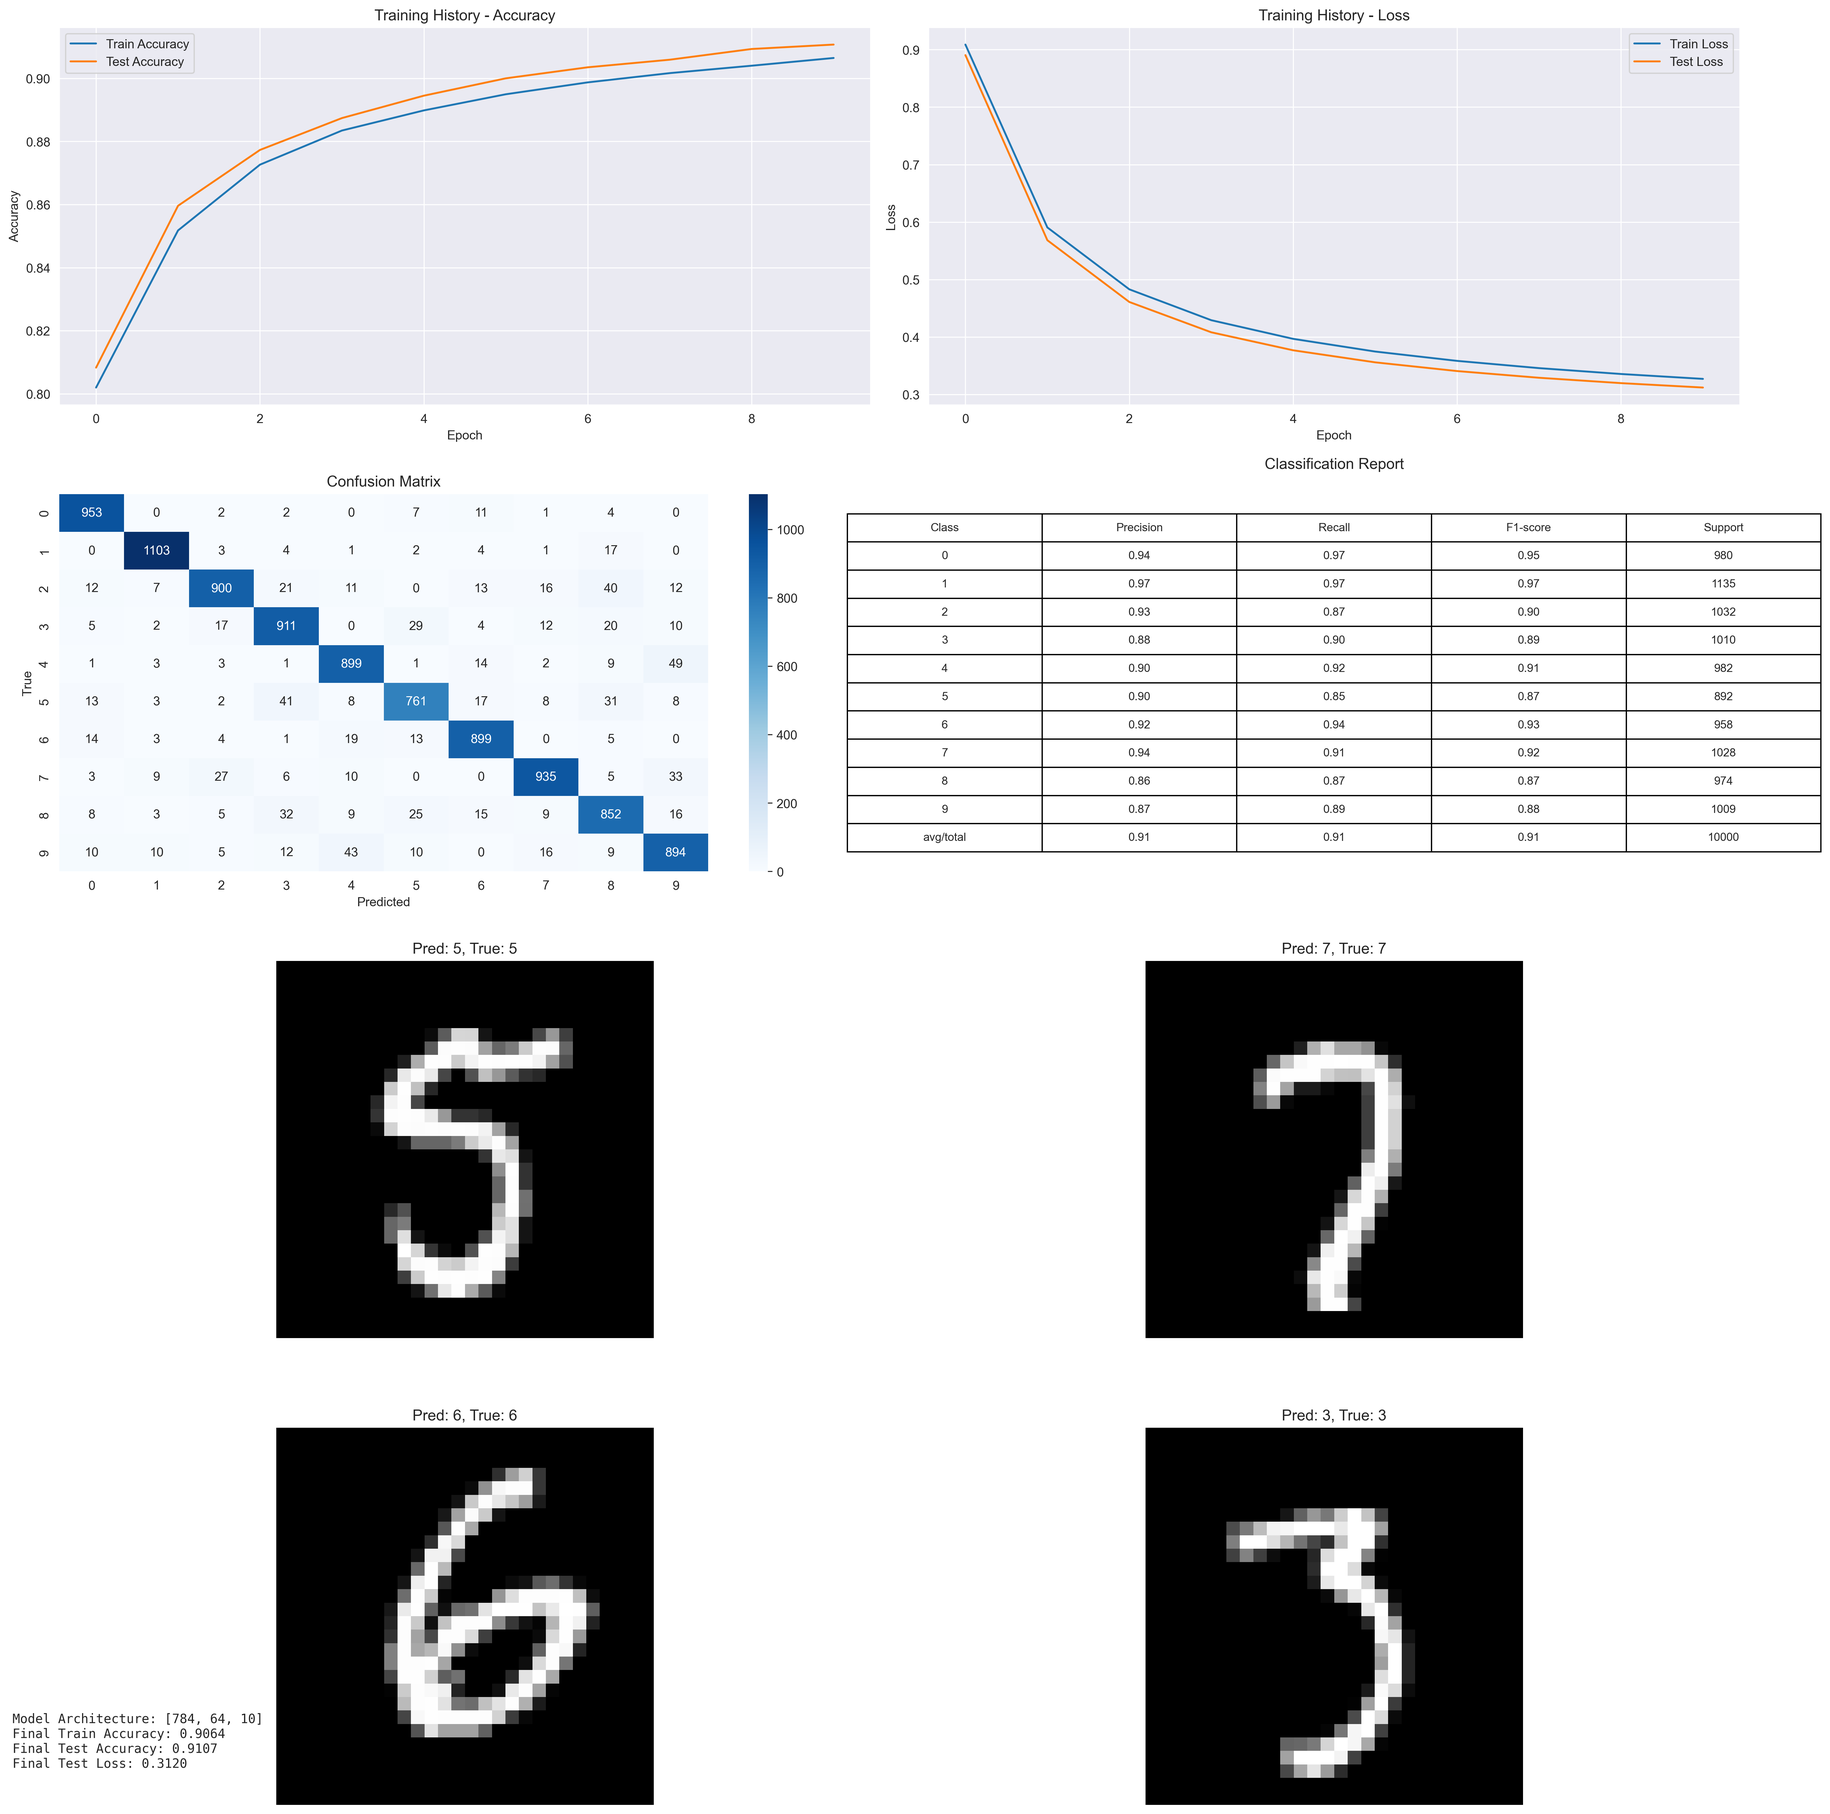
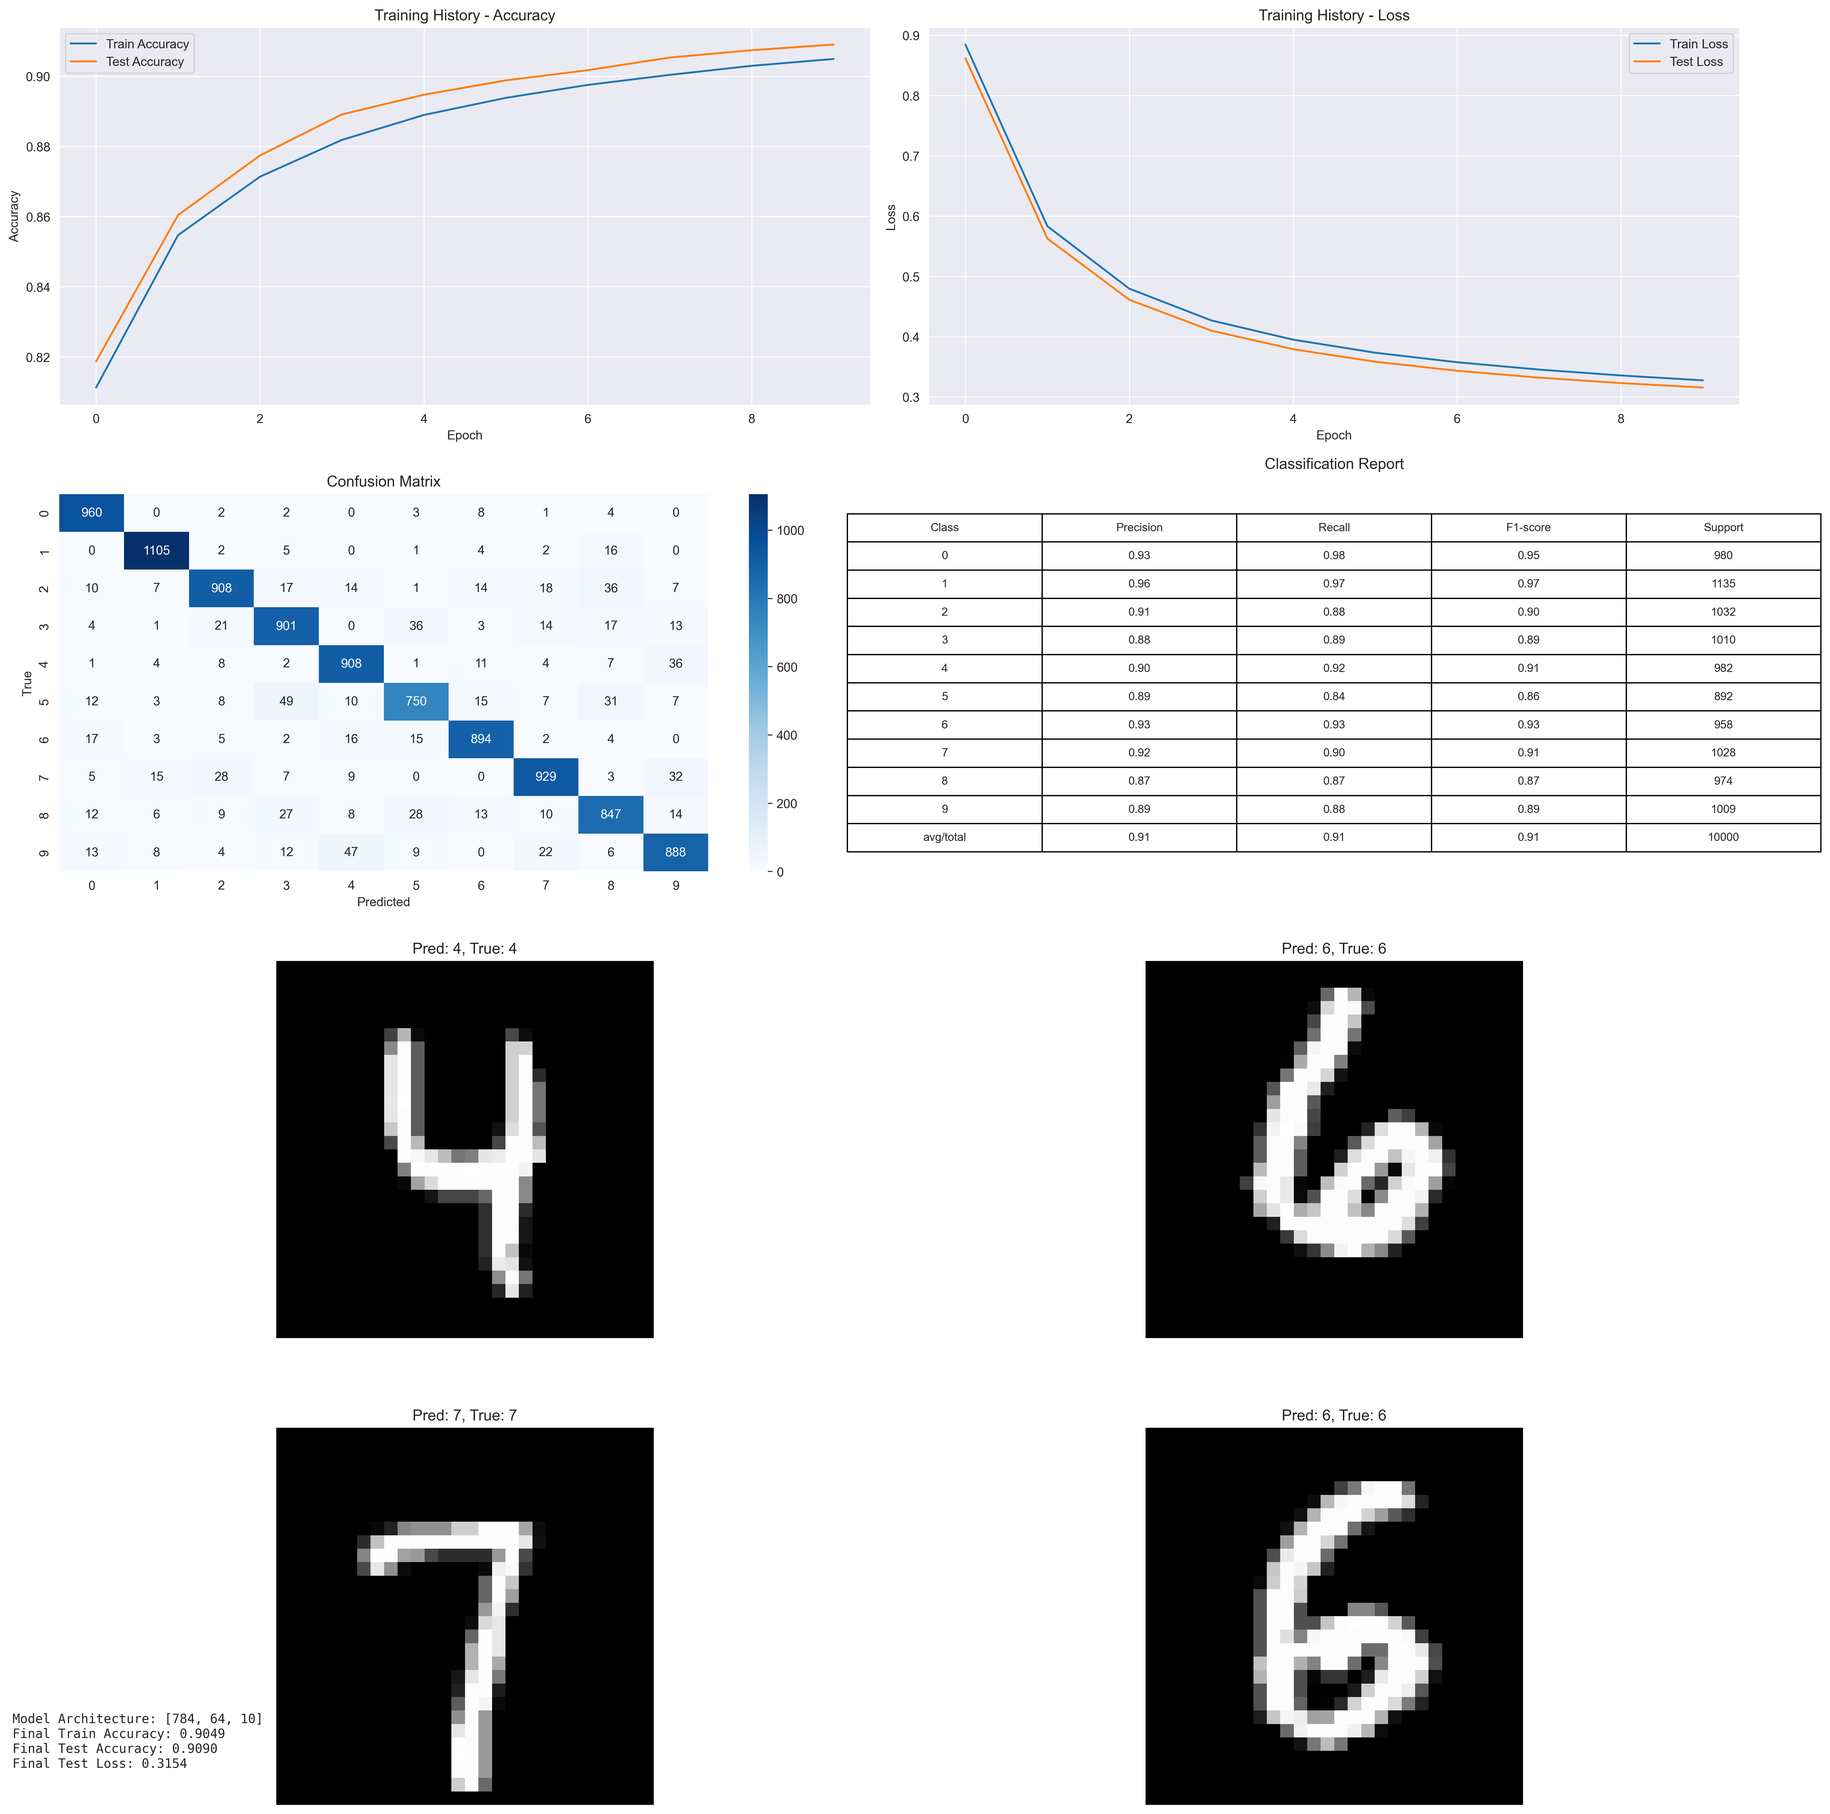
feat: added training and evaluation code to model

diff --git a/model_code/DNN.py b/model_code/DNN.py
@@ -22,6 +22,7 @@ class DNN():
         
         self.params = self.initialize()
         self.cache = {} # for saving the activations
+
     # Defines the functionality of the ReLU activation function
     def relu(self, x, grad=False):
         if grad:
@@ -35,8 +36,7 @@ class DNN():
         if grad:
             return (np.exp(-x))/((np.exp(-x)+1)**2)
         return 1/(1 + np.exp(-x))
-
-   
+    
     # Defines the functionality of the softmax activation function
     def softmax(self, x):
         exp_x = np.exp(x - np.max(x, axis=0, keepdims=True))
@@ -70,7 +70,8 @@ class DNN():
                 self.cache[f"A{i}"] = self.softmax(self.cache[f"Z{i}"])
         
         return self.cache[f"A{self.num_layers-1}"]
-        # Defines the functionality to move back through the neural net, calculating all the necessary gradients as we go backward
+    
+    # Defines the functionality to move back through the neural net, calculating all the necessary gradients as we go backward
     def backprop(self, y, y_hat):
         batch_size = y.shape[0]
         self.grads = {}
@@ -96,3 +97,228 @@ class DNN():
         for key in self.params:
             self.params[key] = self.params[key] - lr*self.grads[key]
     
+    # Defines the loss function for our neural net
+    # We will be using the cross entropy loss function
+    def cross_entropy_loss(self, y, y_hat):
+        epsilon = 1e-15  # Small constant to prevent log(0)
+        y_hat = np.clip(y_hat, epsilon, 1 - epsilon)
+        return -(1./y.shape[0])*(np.sum(y.T*np.log(y_hat)))
+
+    # Calculates the accuracy of our model
+    def acc(self, y, y_hat):
+        return np.mean(np.argmax(y, axis=-1) == np.argmax(y_hat.T, axis=-1))
+    
+    # This function is where the actual training of our model takes place
+    # We culminate all we have made so far into one function
+    def train(self, X_train, y_train, X_test, y_test, epochs = 10, batch_size=64, lr=0.01):
+        num_batches = -(-X_train.shape[0]//batch_size)
+
+        start_time = time.time()
+        # Information template so we know how our model is learning as the epochs progress
+        template = "Epoch {}: {:.2f}s, train acc={:.2f}, train loss={:.2f}, test acc={:.2f}, test loss={:.2f}"
+        stats = {"train_acc" : [],
+                 "train_loss" : [],
+                 "test_acc" : [],
+                 "test_loss" : []}
+
+        for epoch in range(epochs):
+            for i in range(num_batches):
+                # Dividing the data into small batches
+                begin = i * batch_size
+                end = min(begin + batch_size, X_train.shape[0]-1)
+                X = X_train[begin:end]
+                y = y_train[begin:end]
+
+                # Training aka forward propagation then backward propagation and then optimize
+                y_hat = self.forward(X)
+                self.backprop(y, y_hat)
+                self.optimize(lr)
+
+            # Testing the current model on the testing and training data to get current accuracy
+            y_hat = self.forward(X_train)
+            train_acc = self.acc(y_train, y_hat)
+            train_loss = self.cross_entropy_loss(y_train, y_hat)
+
+            y_hat = self.forward(X_test)
+            test_acc = self.acc(y_test, y_hat)
+            test_loss = self.cross_entropy_loss(y_test, y_hat)
+
+            print(template.format(epoch+1, time.time()-start_time, train_acc, train_loss, test_acc, test_loss))
+
+            stats["train_acc"].append(train_acc)
+            stats["train_loss"].append(train_loss)
+            stats["test_acc"].append(test_acc)
+            stats["test_loss"].append(test_loss)
+        
+        return stats
+    
+    # We use this function to test our model
+    def test(self, img, y=None, save_path='model_code/results/test.png'):
+        img_reshaped = img.reshape(1, -1)
+        pred_prob = self.forward(img_reshaped)
+        y_hat = np.argmax(pred_prob)
+        plt.figure(figsize=(10, 4))
+        plt.subplot(1, 2, 1)
+        plt.imshow(img.reshape(28, 28), cmap='gray')
+        plt.axis('off')
+        plt.title('Input Image')
+
+        plt.subplot(1, 2, 2)
+        probabilities = pred_prob.flatten()
+        colors = ['lightcoral'] * 10
+        colors[y_hat] = 'lightgreen'
+        
+        plt.bar(range(10), probabilities, color=colors)
+        plt.xlabel('Digit')
+        plt.ylabel('Probability')
+        plt.title(f'Prediction: {y_hat}' + (f'\nActual: {y}' if y is not None else ''))
+        plt.xticks(range(10))
+        
+        plt.tight_layout()
+        os.makedirs(os.path.dirname(save_path), exist_ok=True)
+        plt.savefig(save_path)
+        plt.close()
+        
+        return y_hat
+    
+    # This function evaluates our model in four different ways
+    # First, we graph the training and testing accuracy and loss for each epoch
+    # Then, we make the confusion matrix
+    # Then, we calculate the precision, recall, and f1-score
+    # We also make predictions on some testing images to show our the model is predicting
+    # Finally, we print the architecture of the model, training and testing accuracy, and loss
+    def eval(self, X_train, y_train, X_test, y_test, stats=None, save_path='model_code/results/evals.png'):
+        sns.set_style("darkgrid")
+        fig = plt.figure(figsize=(20, 20))
+
+        # 1. Training History Plot
+        if stats:
+            plt.subplot(4, 2, 1)
+            plt.plot(stats['train_acc'], label='Train Accuracy')
+            plt.plot(stats['test_acc'], label='Test Accuracy')
+            plt.title('Training History - Accuracy')
+            plt.xlabel('Epoch')
+            plt.ylabel('Accuracy')
+            plt.legend()
+            
+            plt.subplot(4, 2, 2)
+            plt.plot(stats['train_loss'], label='Train Loss')
+            plt.plot(stats['test_loss'], label='Test Loss')
+            plt.title('Training History - Loss')
+            plt.xlabel('Epoch')
+            plt.ylabel('Loss')
+            plt.legend()
+
+        # 2. Confusion Matrix
+        y_pred_test = np.argmax(self.forward(X_test), axis=0)
+        y_true_test = np.argmax(y_test, axis=1)
+        
+        conf_matrix = np.zeros((10, 10))
+        for i in range(len(y_true_test)):
+            conf_matrix[y_true_test[i]][y_pred_test[i]] += 1
+
+        plt.subplot(4, 2, 3)
+        sns.heatmap(conf_matrix, annot=True, fmt='g', cmap='Blues')
+        plt.title('Confusion Matrix')
+        plt.xlabel('Predicted')
+        plt.ylabel('True')
+
+        # 3. precision, recall, and F1-score
+        precision = np.zeros(10)
+        recall = np.zeros(10)
+        f1_score = np.zeros(10)
+        support = np.zeros(10)
+
+        for i in range(10):
+            tp = conf_matrix[i][i]
+            fp = np.sum(conf_matrix[:, i]) - tp
+            fn = np.sum(conf_matrix[i, :]) - tp
+            support[i] = np.sum(conf_matrix[i, :])
+            
+            precision[i] = tp / (tp + fp) if (tp + fp) > 0 else 0
+            recall[i] = tp / (tp + fn) if (tp + fn) > 0 else 0
+            f1_score[i] = 2 * (precision[i] * recall[i]) / (precision[i] + recall[i]) if (precision[i] + recall[i]) > 0 else 0
+
+        plt.subplot(4, 2, 4)
+        plt.axis('off')
+        
+        header = ['Class', 'Precision', 'Recall', 'F1-score', 'Support']
+        cell_text = []
+        
+        for i in range(10):
+            cell_text.append([
+                f'{i}',
+                f'{precision[i]:.2f}',
+                f'{recall[i]:.2f}',
+                f'{f1_score[i]:.2f}',
+                f'{int(support[i])}'
+            ])
+        
+        avg_precision = np.mean(precision)
+        avg_recall = np.mean(recall)
+        avg_f1 = np.mean(f1_score)
+        total_support = int(np.sum(support))
+        
+        cell_text.append([
+            'avg/total',
+            f'{avg_precision:.2f}',
+            f'{avg_recall:.2f}',
+            f'{avg_f1:.2f}',
+            f'{total_support}'
+        ])
+        
+        table = plt.table(cellText=cell_text,
+                        colLabels=header,
+                        loc='center',
+                        cellLoc='center')
+        table.auto_set_font_size(False)
+        table.set_fontsize(9)
+        table.scale(1.2, 1.5)
+        plt.title('Classification Report', pad=20)
+
+        # 4. Sample Predictions
+        n_samples = 4
+        random_indices = np.random.randint(0, len(X_test), n_samples)
+        
+        for idx, i in enumerate(random_indices):
+            plt.subplot(4, 2, 5 + idx)
+            img = X_test[i].reshape(28, 28)
+            pred_prob = self.forward(X_test[i].reshape(1, -1))
+            pred = np.argmax(pred_prob)
+            true = np.argmax(y_test[i])
+            
+            plt.imshow(img, cmap='gray')
+            plt.axis('off')
+            plt.title(f'Pred: {pred}, True: {true}')
+        
+        # 5. Add text information
+        test_acc = self.acc(y_test, self.forward(X_test))
+        train_acc = self.acc(y_train, self.forward(X_train))
+        test_loss = self.cross_entropy_loss(y_test, self.forward(X_test))
+        
+        info_text = (
+            f'Model Architecture: {self.sizes}\n'
+            f'Final Train Accuracy: {train_acc:.4f}\n'
+            f'Final Test Accuracy: {test_acc:.4f}\n'
+            f'Final Test Loss: {test_loss:.4f}\n'
+        )
+        
+        fig.text(0.01, 0.02, info_text, fontsize=10, family='monospace')
+        
+        plt.tight_layout()
+        os.makedirs(os.path.dirname(save_path), exist_ok=True)
+        plt.savefig(save_path, bbox_inches='tight', dpi=300)
+        plt.close()
+        
+        return {
+            'test_accuracy': test_acc,
+            'train_accuracy': train_acc,
+            'test_loss': test_loss,
+            'precision': precision,
+            'recall': recall,
+            'f1_score': f1_score,
+            'support': support,
+            'avg_precision': avg_precision,
+            'avg_recall': avg_recall,
+            'avg_f1': avg_f1
+        }

diff --git a/model_code/utils.py b/model_code/utils.py
@@ -1,0 +1,87 @@
+from sklearn.datasets import fetch_openml
+import numpy as np
+import matplotlib.pyplot as plt
+import time
+import os
+
+def fetch_mnist():
+    print("Fetching MNIST dataset...")
+    start_time = time.time()
+    mnist = fetch_openml('mnist_784', version=1, cache=True, as_frame=False)
+    X, y = mnist.data, mnist.target
+    print(f"Dataset fetched in {time.time() - start_time:.2f} seconds")
+    return X, y
+
+def preprocess(X: np.ndarray, y: np.ndarray):
+    print("Preprocessing data...")
+    start_time = time.time()
+    
+    # Normalizing the data from (0,255) to (0,1)
+    X = X / 255
+    print("Data normalized")
+    
+    # Converting the labels from str -> int
+    y = y.astype(np.int32)
+    
+    y_onehot = np.zeros((len(y), 10))
+    y_onehot[np.arange(len(y)), y] = 1
+    y = y_onehot
+    
+    print(f"Preprocessing completed in {time.time() - start_time:.2f} seconds")
+    return X, y
+
+def show_graphs(stats: dict, save_path='model_code/results/train.png'):
+    train_losses = stats["train_loss"]
+    train_accs = stats["train_acc"]
+    test_losses = stats["test_loss"]
+    test_accs = stats["test_acc"]
+    
+    epochs = range(1, len(train_losses) + 1)
+    
+    fig, ((ax1, ax2), (ax3, ax4)) = plt.subplots(2, 2, figsize=(15, 10))
+    fig.suptitle('Training and Testing Metrics', fontsize=16)
+    
+    # Plot 1: Training metrics
+    ax1.plot(epochs, train_losses, 'b-', label='Loss')
+    ax1.set_ylabel('Loss', color='b')
+    ax1.tick_params(axis='y', labelcolor='b')
+    
+    ax1_twin = ax1.twinx()
+    ax1_twin.plot(epochs, train_accs, 'r-', label='Accuracy')
+    ax1_twin.set_ylabel('Accuracy', color='r')
+    ax1_twin.tick_params(axis='y', labelcolor='r')
+    ax1.set_title('Training Metrics per Epoch')
+    ax1.set_xlabel('Epoch')
+    
+    # Plot 2: Testing metrics
+    ax2.plot(epochs, test_losses, 'b-', label='Loss')
+    ax2.set_ylabel('Loss', color='b')
+    ax2.tick_params(axis='y', labelcolor='b')
+    
+    ax2_twin = ax2.twinx()
+    ax2_twin.plot(epochs, test_accs, 'r-', label='Accuracy')
+    ax2_twin.set_ylabel('Accuracy', color='r')
+    ax2_twin.tick_params(axis='y', labelcolor='r')
+    ax2.set_title('Testing Metrics per Epoch')
+    ax2.set_xlabel('Epoch')
+    
+    # Plot 3: Loss comparison
+    ax3.plot(epochs, train_losses, 'b-', label='Train Loss')
+    ax3.plot(epochs, test_losses, 'r-', label='Test Loss')
+    ax3.set_title('Training vs Testing Loss')
+    ax3.set_xlabel('Epoch')
+    ax3.set_ylabel('Loss')
+    ax3.legend()
+    
+    # Plot 4: Accuracy comparison
+    ax4.plot(epochs, train_accs, 'b-', label='Train Accuracy')
+    ax4.plot(epochs, test_accs, 'r-', label='Test Accuracy')
+    ax4.set_title('Training vs Testing Accuracy')
+    ax4.set_xlabel('Epoch')
+    ax4.set_ylabel('Accuracy')
+    ax4.legend()
+    
+    plt.tight_layout()
+    os.makedirs(os.path.dirname(save_path), exist_ok=True)
+    plt.savefig(save_path)
+    plt.close()

diff --git a/model_code/main.py b/model_code/main.py
@@ -1,0 +1,43 @@
+import numpy as np 
+from DNN import DNN
+import time
+from utils import fetch_mnist, preprocess, show_graphs
+
+
+def main():
+    print("\nStarting Neural Network training process")
+    
+    X, y = fetch_mnist()
+    X, y = preprocess(X, y)
+
+    train_size = 60000  # total is 70000
+    test_size = y.shape[0] - train_size
+    X_train, X_test = X[:train_size], X[train_size:]
+    y_train, y_test = y[:train_size], y[train_size:]
+    
+    print(f"Train set size: {train_size}, Test set size: {test_size}")
+
+    print("Shuffling training data...")
+    shuffle_index = np.random.permutation(np.arange(train_size))
+    X_train, y_train = X_train[shuffle_index], y_train[shuffle_index]
+
+    print("Initializing Neural Network...")
+    model = DNN(sizes=[784, 64, 10], activation='relu')
+    
+    print("Starting training...")
+    training_start = time.time()
+    stats = model.train(X_train, y_train, X_test, y_test, epochs=10, batch_size=128, lr=0.01)
+    training_time = time.time() - training_start
+    show_graphs(stats)
+    
+    print(f"Training completed in {training_time:.2f} seconds")
+
+    idx = np.random.randint(0, 10000)
+    img = X_test[idx]
+    actual_label = np.argmax(y_test[idx])
+    model.test(img, actual_label)
+    eval_results = model.eval(X_train, y_train, X_test, y_test, stats=stats)
+    print(eval_results)
+
+if __name__ == "__main__":
+    main()
